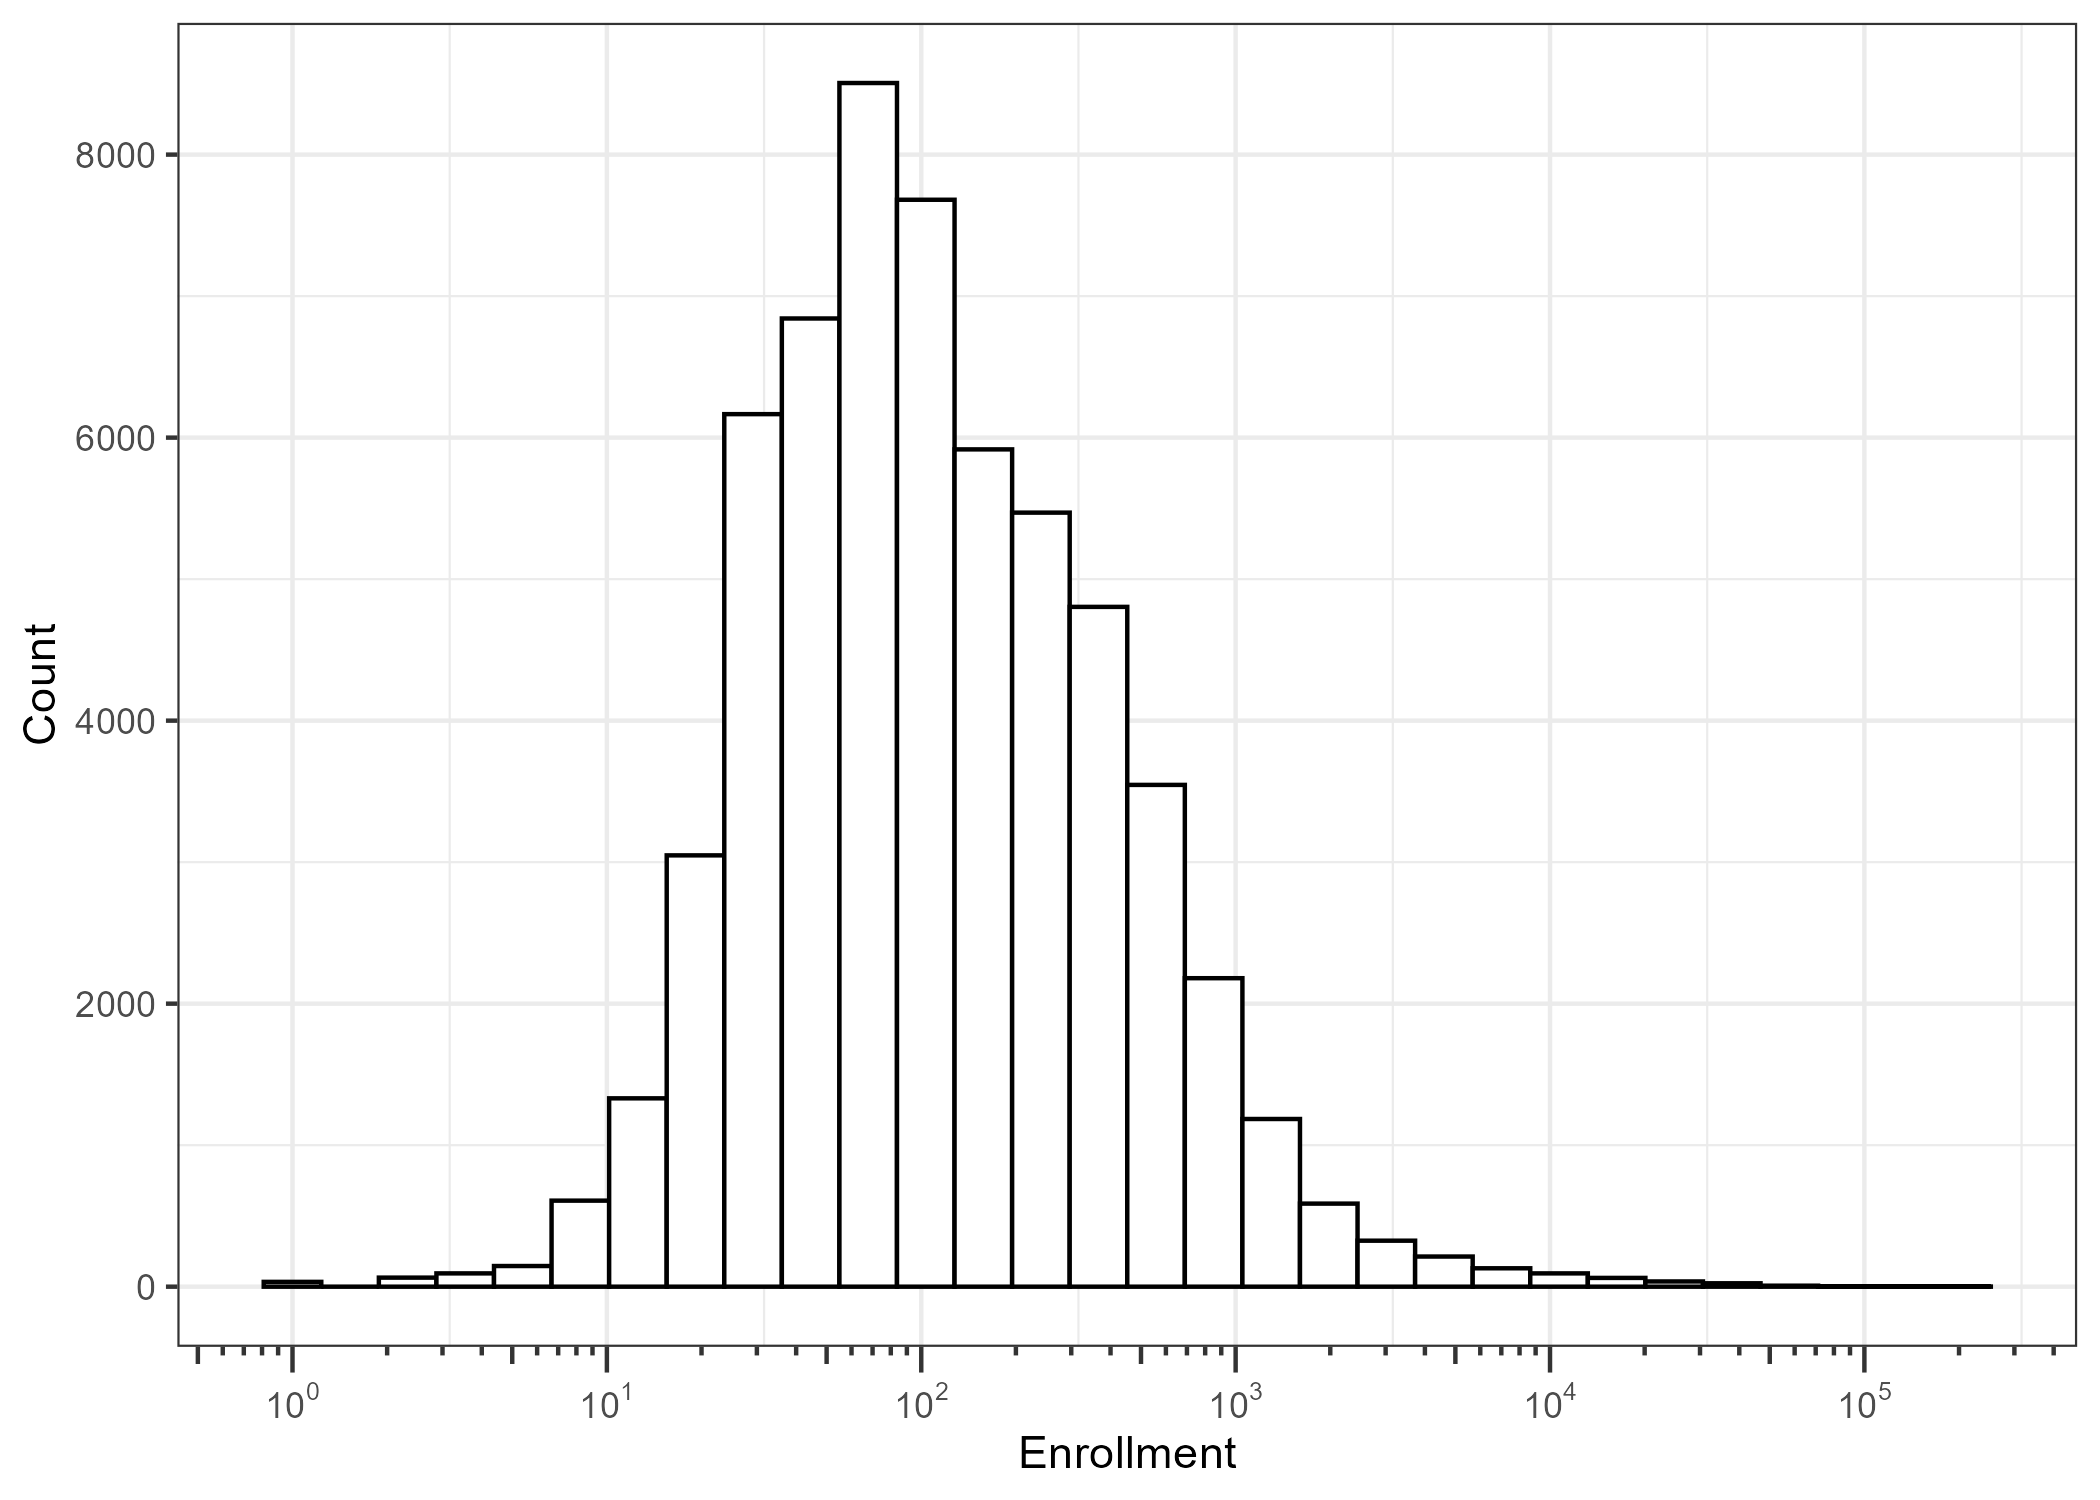
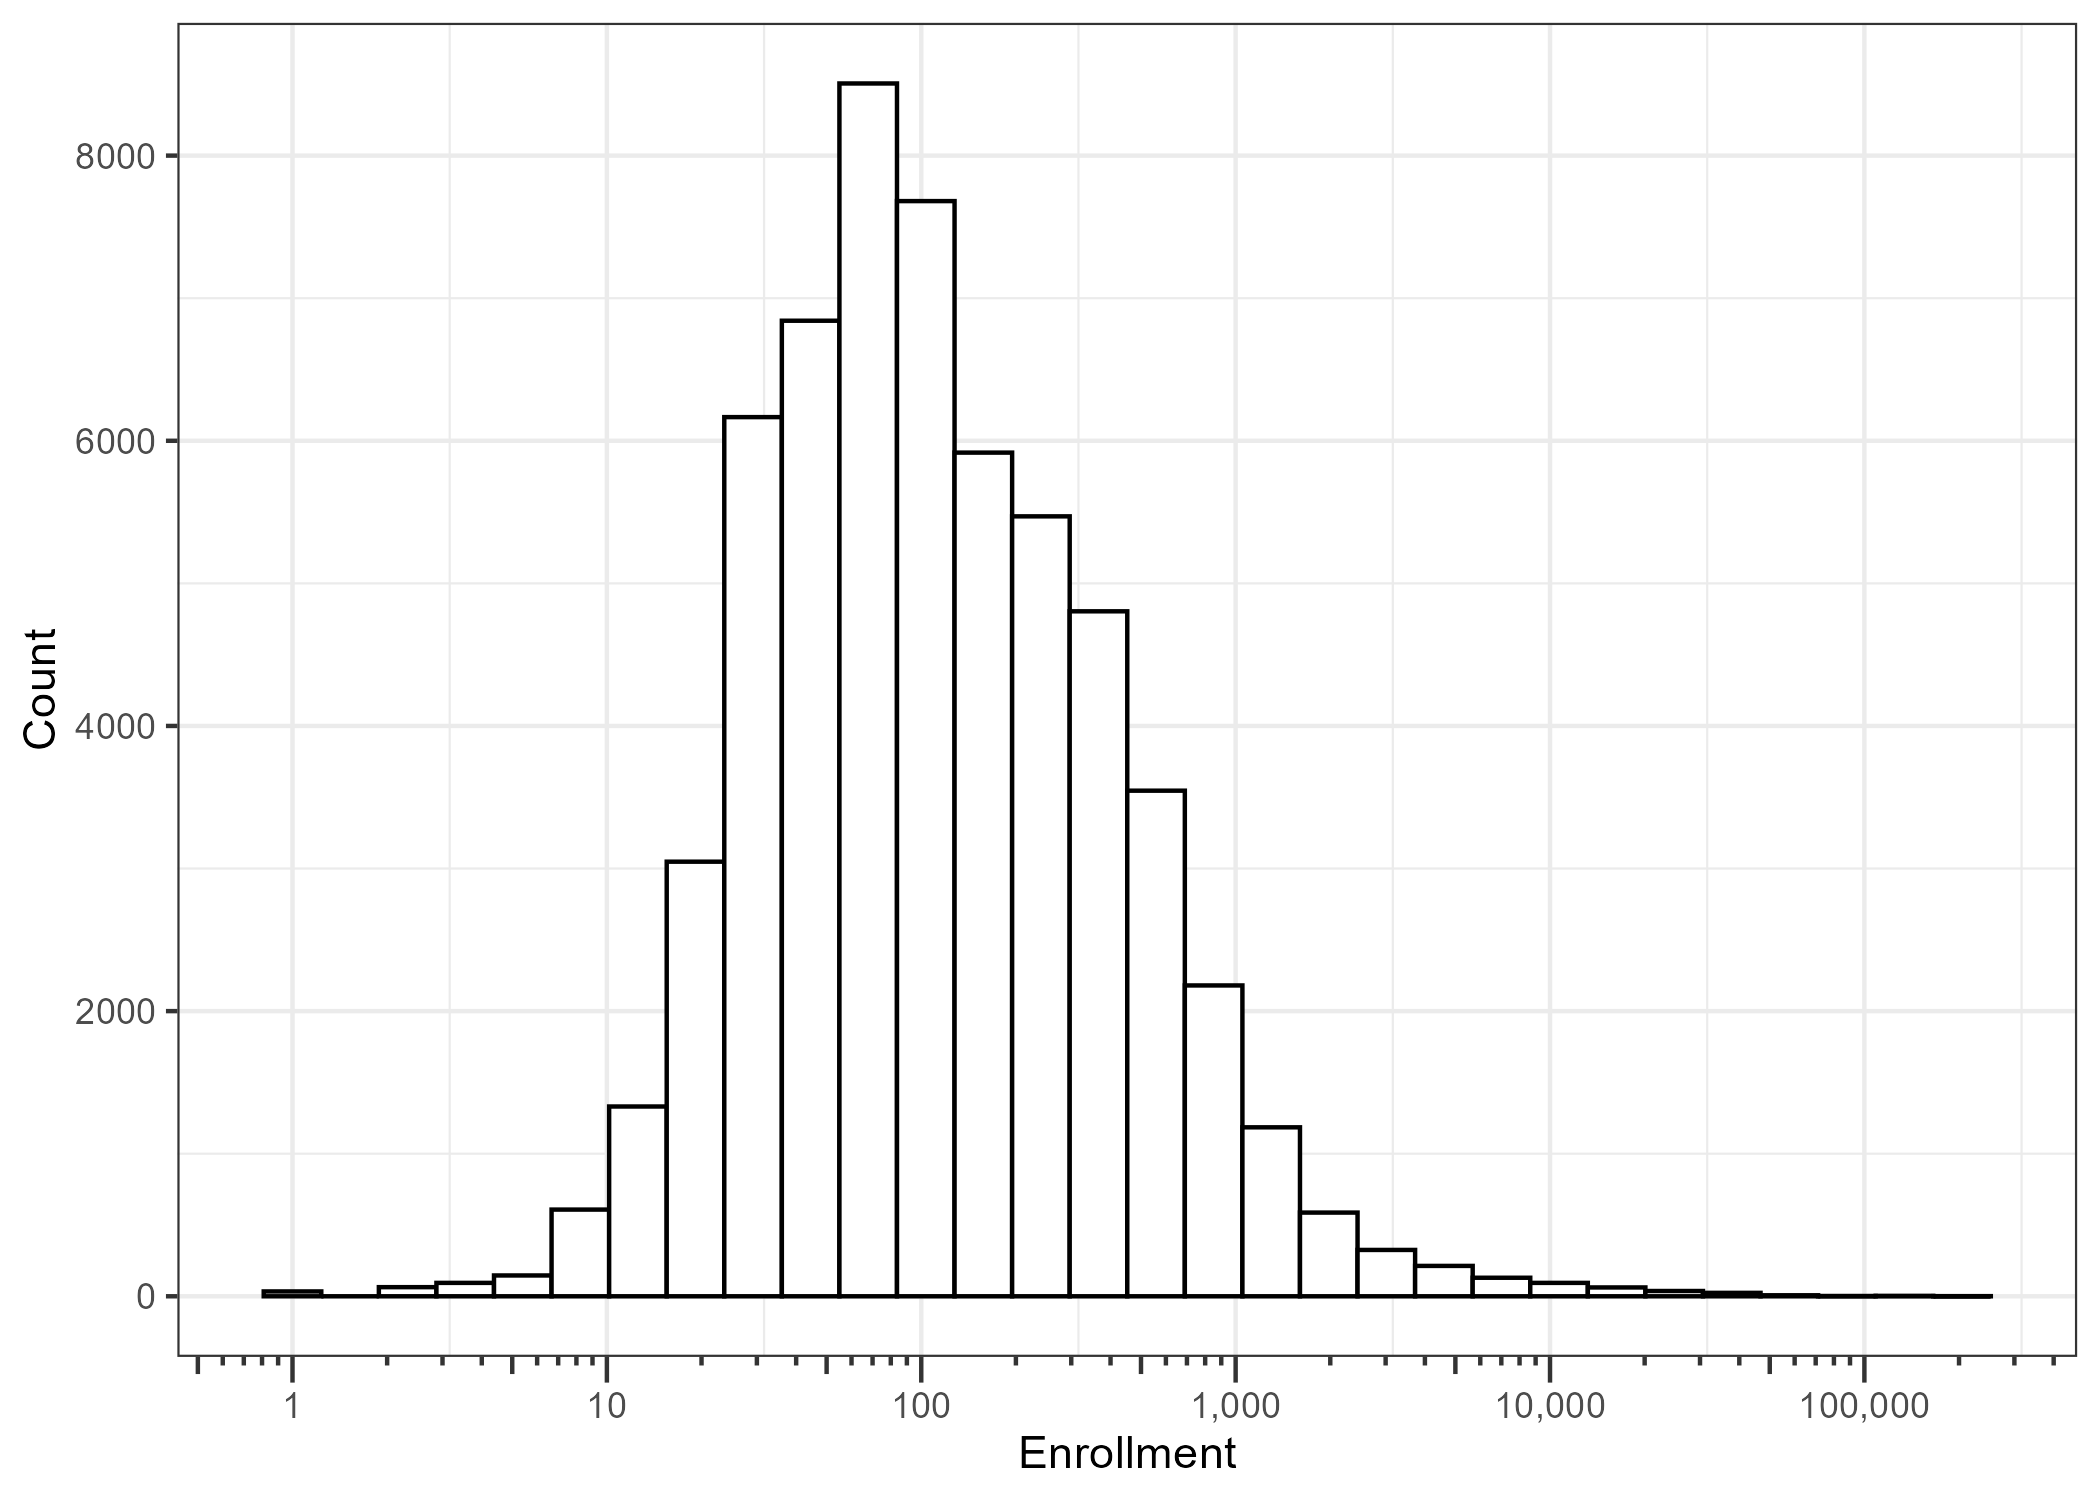
Improving axis labels.

diff --git a/README.md b/README.md
@@ -228,17 +228,15 @@ RawData2 <- RawData[is.na(ManualExclusion) & Masking != "NONE" &
 
 ## Sample sizes
 
-First, lets start with observing the distribution of the sample sizes as
-a whole:
+First, lets start with visualizing the distribution of the sample sizes
+(note that the horizontal scale is logarithmic!):
 
 ``` r
 ggplot(RawData[Enrollment > 0], aes(x = Enrollment)) +
   geom_histogram(color = "black", fill = "white", bins = 30) +
-  scale_x_log10(
-    breaks = scales::trans_breaks("log10", function(x) 10^x),
-    labels = scales::trans_format("log10",
-                                  scales::math_format(10^.x)),
-    guide = "axis_logticks") +
+  scale_x_log10(breaks = scales::breaks_log(n = 6),
+                labels = scales::label_comma(),
+                guide = "axis_logticks") +
   labs(y = "Count")
 ```
 
@@ -297,11 +295,9 @@ comparator is placebo or not:
 ``` r
 ggplot(RawData[Enrollment > 0], aes(x = Enrollment)) +
   geom_density(aes(group = Placebo, color = Placebo)) +
-  scale_x_log10(
-    breaks = scales::trans_breaks("log10", function(x) 10^x),
-    labels = scales::trans_format("log10",
-                                  scales::math_format(10^.x)),
-    guide = "axis_logticks") +
+  scale_x_log10(breaks = scales::breaks_log(n = 6),
+                labels = scales::label_comma(),
+                guide = "axis_logticks") +
   labs(y = "Count")
 ```
 
